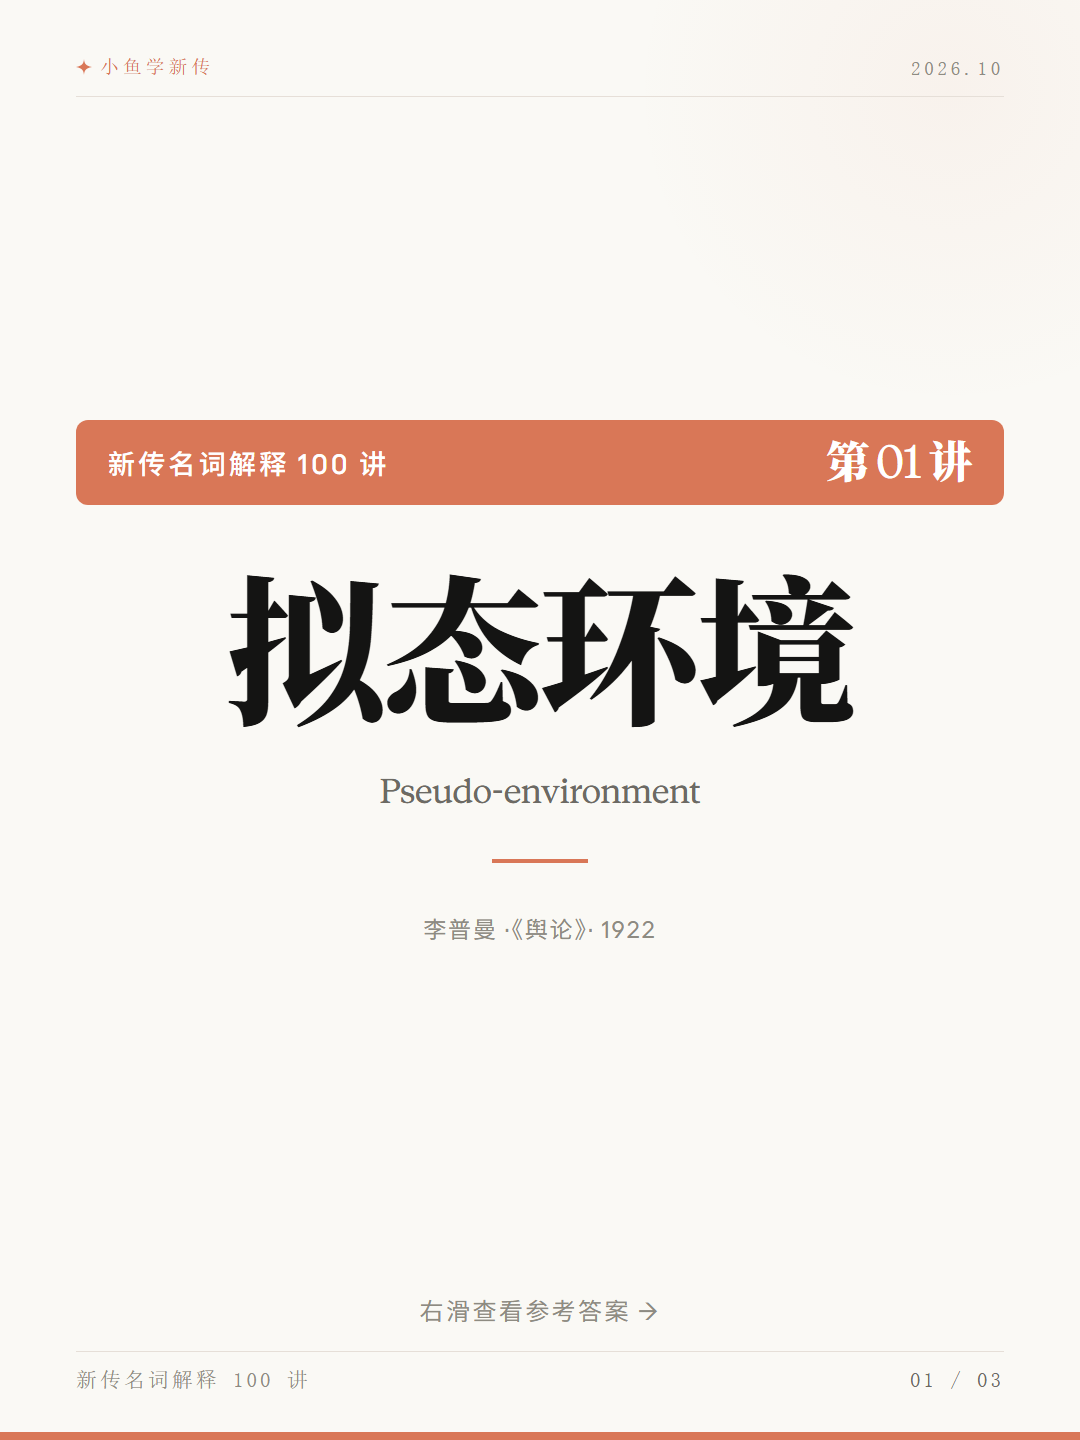
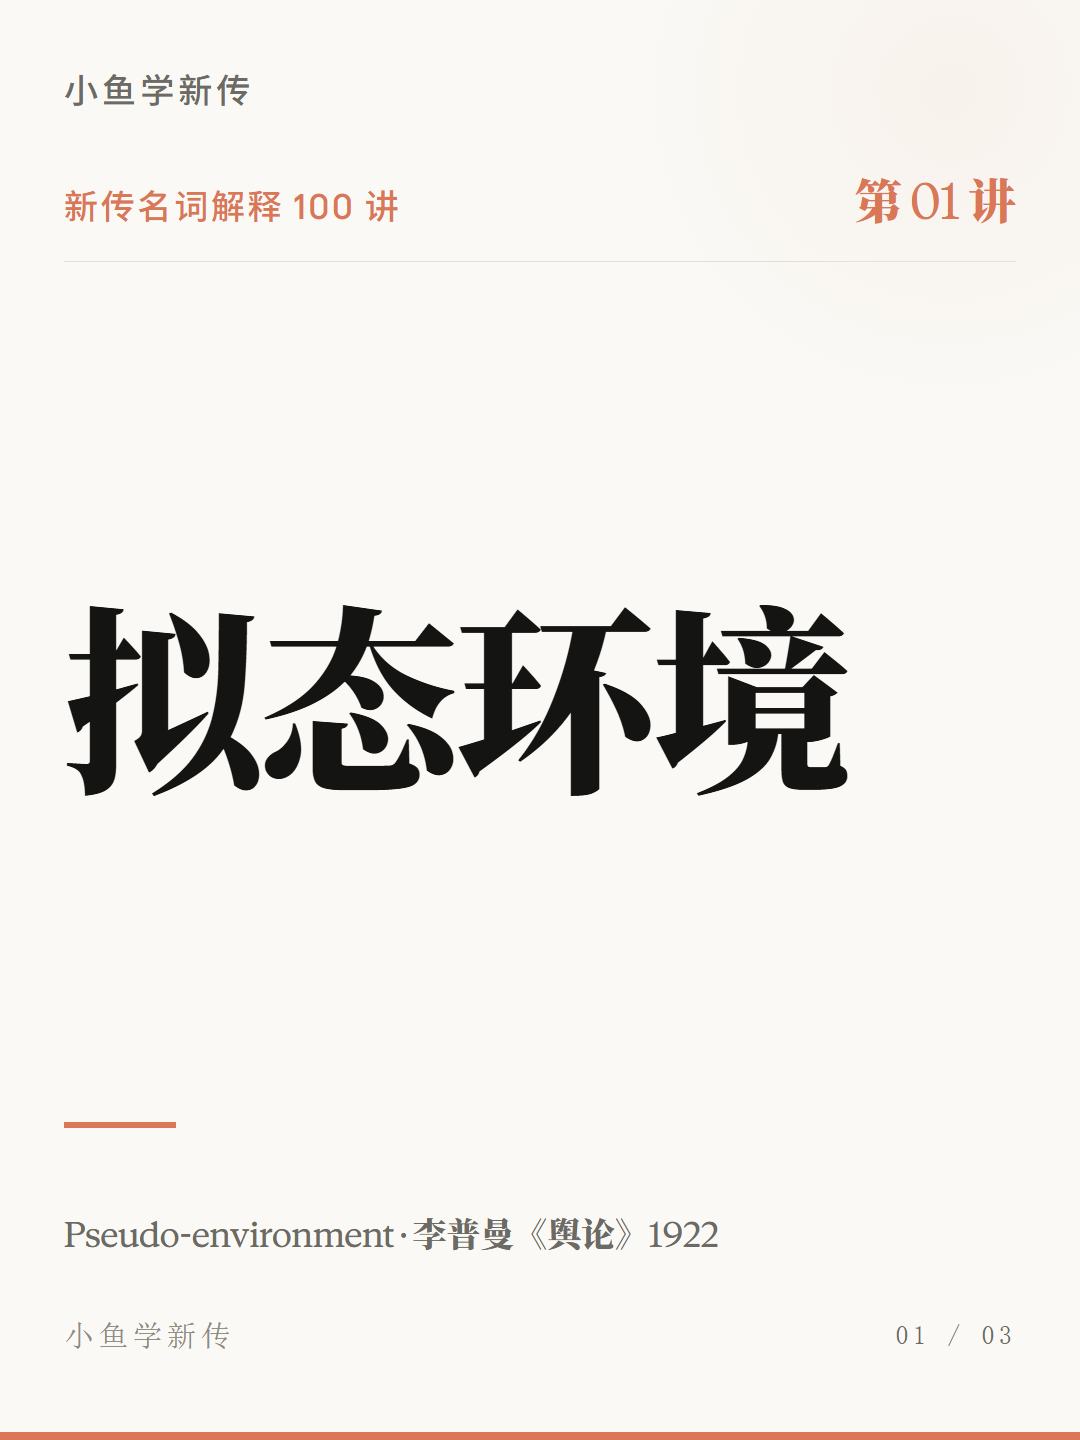
拟态环境封面改 v13 左对齐版式（第 01 讲）
系列行改珊瑚文字 + 发丝线、刊头去 spike 与日期、标题左齐、页脚去分隔线、去右滑提示；副题并为 Pseudo-environment · 李普曼《舆论》1922。答案页 02/03 未动。

diff --git a/kb/wiki/log.md b/kb/wiki/log.md
@@ -1008,3 +1008,15 @@ PDF 用 venv 内 pypdf 6.16.2 提取，落盘 `_p14_j.txt`（第十四讲）与 
 **核查**：2026-10-18 央视《新闻直播间》《新闻30分》《每周质量报告》同日播出《看不清的近视「防控」镜片》。江苏丹阳年产镜片近 4 亿副，一副 1.56 折射率、适配 300 度以内近视的多点离焦镜片批发价 30 元，同款在产品手册上零售参考价 1980 元；采购商可自行决定贴什么商标、卖什么价。央视走访 20 多家眼镜店，多家「延缓增长」「安全护眼」镜片拿不出临床报告，有的无厂名厂址。亿峰眼镜每天可产上千副白包镜片，自营品牌电商页面累计销量 139 万件、宣传「减缓眼轴增长」，承认未做临床；博大光学日产约 7 万副，35 元白包专供贴牌商家，承认「防控结构仿照大品牌」「这个我们没有做临床，宣传由代理商自己负责」。当日厦门思明区市监局通报莱付眼镜冒牌贴牌「情况基本属实，已依法立案查处」（将其他品牌镜片装入尼康旧包装交付）；丹阳市监局当晚通报耀程光学、博大光学、多爱美眼镜、极采镜片 4 家涉嫌标识标签不规范、发布虚假广告，已立案调查。反向取证：离焦镜片本身有循证支持（2025 年《Ophthalmology》双盲 RCT，140 名 8—13 岁儿童 12 个月，等效球镜少 0.39D、眼轴少 0.17mm；国家卫健委 2024 年版《近视防治指南》已列入），王宁利院士 2026-05-19 在卫健委发布会上指「宣称让近视反转、眼轴变短，现在来说不可能」。
 
 **归档**：5 张存 `kb/新传热点事件解读/images/`，命名 `34-近视防控镜片-0X.png`（平铺，md5 逐张校验一致）；笔记 `34-近视防控镜片.md` 含写作基调／口径提示、事件回顾、两个理论视角、争议焦点、4 条考点金句、同源案例 4 条、小红书文案（含考点自测型投票与投放安全边界）、资料来源 8 条、待核项 10 条。桌面副本 `Desktop/34_近视防控镜片_图卡/`（5 张 PNG）。README 目录表、wiki/index.md、wiki/log.md 三处同步。渲染判据：p1 contentBottom 1333／hintGap 49，p2 1315，p3 1275，p4 1324，p5 1179，miniBarW 928，均未溢出；禁用句式与 AI 腔 grep 均 PASS（p4 金句「缺的不是……是……」命中简式变体，已改写）。
+
+## [2026-10-19] report | 拟态环境封面改 v13 左对齐版式
+
+**改什么**：`kb/新传高频名词/拟态环境/拟态环境-01.png` 换成 v13 封面（系列行由珊瑚铺面 + 白字改为珊瑚文字 + 通栏发丝线、刊头去 spike 与日期、主标题由居中改左齐、页脚去上分隔线、去掉「右滑查看参考答案」提示行）。原副题独立成行的「李普曼《舆论》1922」并进单行副题，写作 `Pseudo-environment · 李普曼《舆论》1922`。答案页 02／03 未动。
+
+**为什么**：100 讲系列封面此前有两版并存（第 01 讲旧 v1、第 02 讲「沉默的螺旋」2026-10-15 的 v13），同一系列两种封面。v13 定稿后回改第 01 讲，统一风格。
+
+**版式参数（v13 基准 vs 拟态环境实例）**：标题 172px / 上边距 216px / 短横 margin-top 272px 是为 5 字断两行定的基准值。拟态环境是 4 字单行，按「占内容宽 928 的 88%」折算标题 200px、上边距 336px（放进发丝线 y261 ↔ 短横 y1119 空区做视觉居中）、短横 312px。三处差异均为单行必然调整，不是新规则，已写进源文件头部注释。
+
+**注意**：v13 目前只落在工作目录与成品 PNG 里，**`templates/noun-100/p1.html` 尚未回写**，与 `DESIGN.md` §2／§8 的「series-band 珊瑚铺面 + 白字」「主标题居中且永远一行」「刊头必带 spike」仍冲突。下次用模板出封面仍会得到旧版式，需先裁决回写。
+
+**产物**：`kb/新传高频名词/拟态环境/拟态环境-01.png`（md5 `83738765205fe19f95f7731bbb781f4f`）＋ 桌面副本 `Desktop/拟态环境_名词卡/拟态环境-01.png`（md5 一致）。渲染判据：`cardScroll` 1440、`contentBottom` 1257、`footTop` 1302、未溢出。README 版式表补记 v13、已收录表与 `wiki/index.md` 同步。

diff --git a/kb/新传高频名词/README.md b/kb/新传高频名词/README.md
@@ -7,9 +7,9 @@
 | 版式 | 张数 | 特征 | 用在 |
 |---|---|---|---|
 | 单张卡（原版） | 5 | 无编号，直接进名词解析 | 日常收录 |
-| **100 讲系列**（`templates/noun-100/`） | 3 | 封面带 `series-band` 编号带（系列名 + 第 N 讲）+ 答案·上/下 | 编号连载 |
+| **100 讲系列**（`templates/noun-100/`） | 3 | 封面 + 答案·上/下 | 编号连载 |
 
-100 讲系列的封面主标题 160px 衬线，答案页用「线优先」版式（一条 1px 细框圈住全部答案）。讲次只出现在**画面内**，目录仍按名词名归档，不把讲次写进目录名——读者搜的是词，不是期号。
+100 讲系列封面经历两版：**v1**（series-band 珊瑚铺面 + 白字、标题居中）、**v13**（2026-10-19 定稿：系列行改珊瑚文字 + 通栏发丝线、刊头去 spike 与日期、主标题左齐、页脚去上分隔线、无「右滑」提示行）。**现有成品统一走 v13**。答案页两版通用，用「线优先」版式（一条 1px 细框圈住全部答案）。讲次只出现在**画面内**，目录仍按名词名归档，不把讲次写进目录名——读者搜的是词，不是期号。
 
 与 `kb/新传热点事件解读/` 并列：热点解读是「事件 → 理论」的案例分析，本目录是「纯理论名词」的知识点拆解。二者互为补充。
 
@@ -26,7 +26,7 @@
 | 拟剧理论 | 5 | 单张卡 | 戈夫曼，前台/后台 |
 | 议程设置 | 5 | 单张卡 | 麦库姆斯 & 肖，媒介议程→公众议程 |
 | 具身智能 | 5 | 单张卡 | 布鲁克斯 1991《没有表征的智能》，离身智能的对立面，2025 年写入政府工作报告 |
-| 拟态环境 | 3 | **100 讲系列 · 第 01 讲** | 李普曼《舆论》1922；生成机制 / 影响与地位 / 新媒体时代的重构 / 拟态环境的环境化（藤竹晓 1968） |
+| 拟态环境 | 3 | **100 讲系列 · 第 01 讲 · 封面 v13** | 李普曼《舆论》1922；生成机制 / 影响与地位 / 新媒体时代的重构 / 拟态环境的环境化（藤竹晓 1968） |
 
 ## 维护
 

diff --git a/kb/wiki/index.md b/kb/wiki/index.md
@@ -77,7 +77,7 @@
 - [拟剧理论](../新传高频名词/拟剧理论/) — 5 图 · 单张卡 · 戈夫曼，前台 / 后台
 - [议程设置](../新传高频名词/议程设置/) — 5 图 · 单张卡 · 麦库姆斯 & 肖，媒介议程→公众议程
 - [具身智能](../新传高频名词/具身智能/) — 5 图 · 单张卡 · 布鲁克斯 1991《没有表征的智能》，离身智能的对立面
-- [拟态环境](../新传高频名词/拟态环境/) — 3 图 · **100 讲系列 第 01 讲** · 李普曼《舆论》1922，含藤竹晓「拟态环境的环境化」
+- [拟态环境](../新传高频名词/拟态环境/) — 3 图 · **100 讲系列 第 01 讲 · 封面 v13** · 李普曼《舆论》1922，含藤竹晓「拟态环境的环境化」
 
 
 
